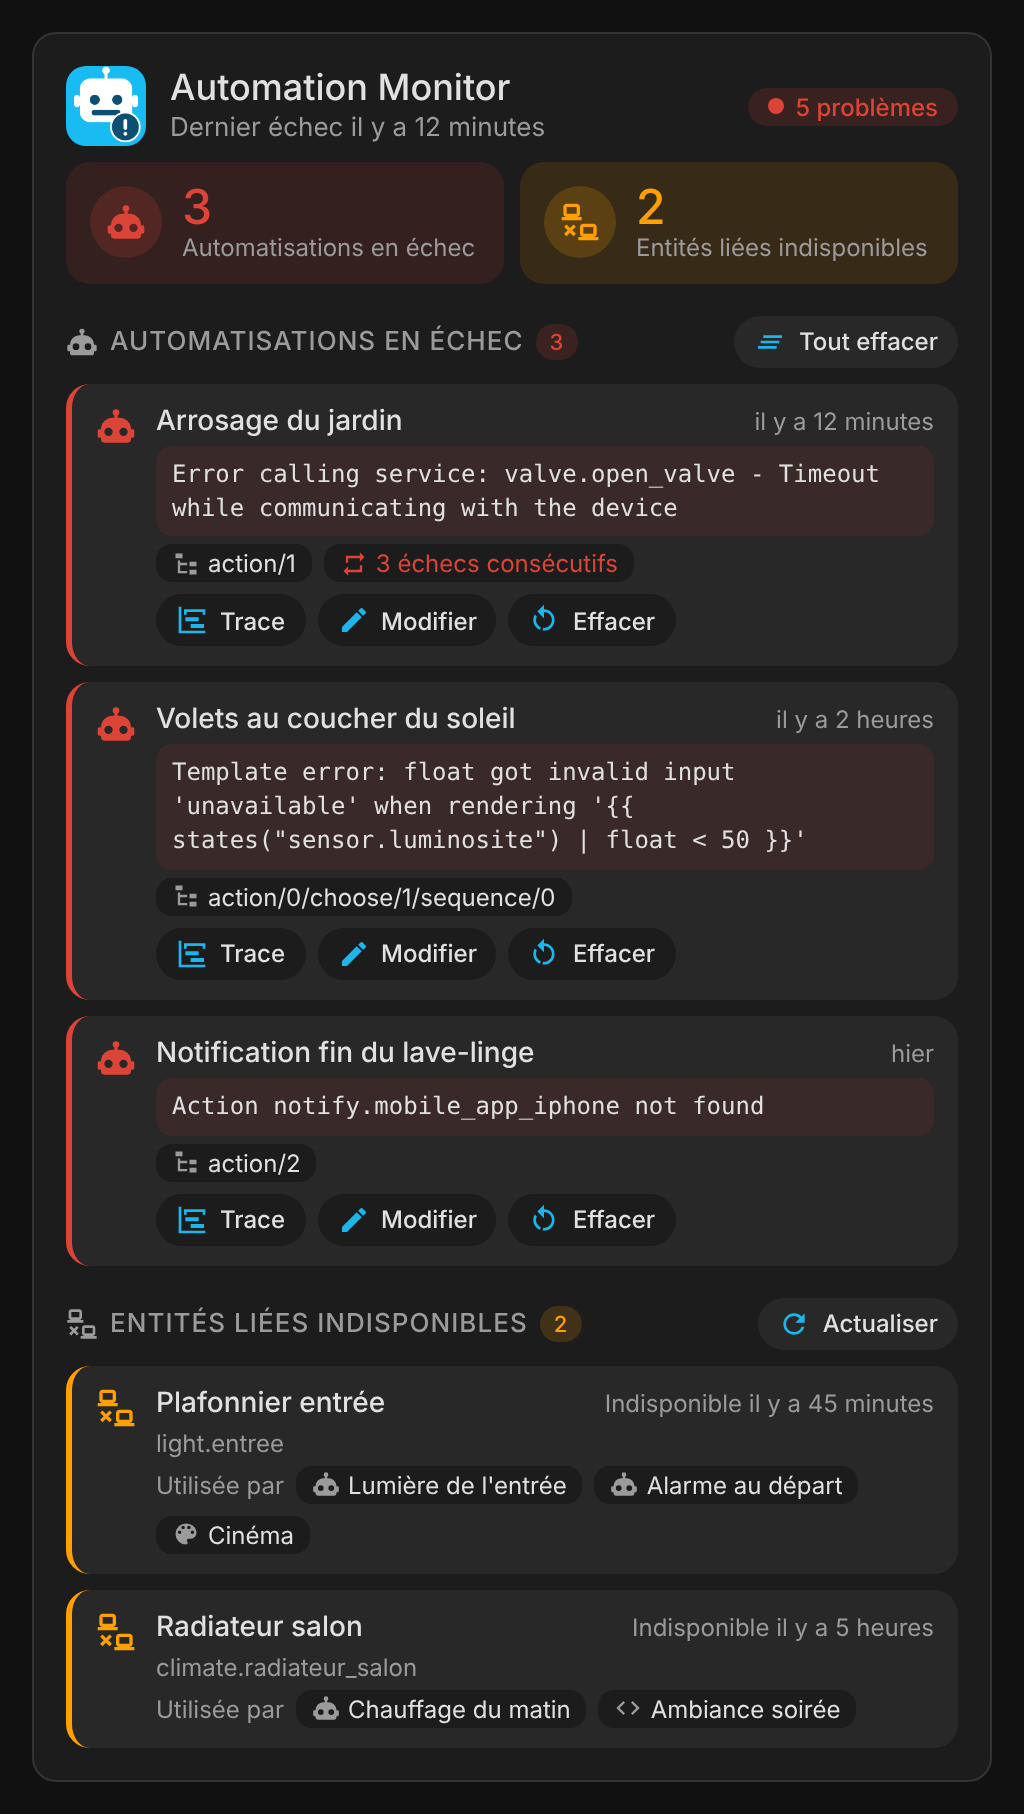
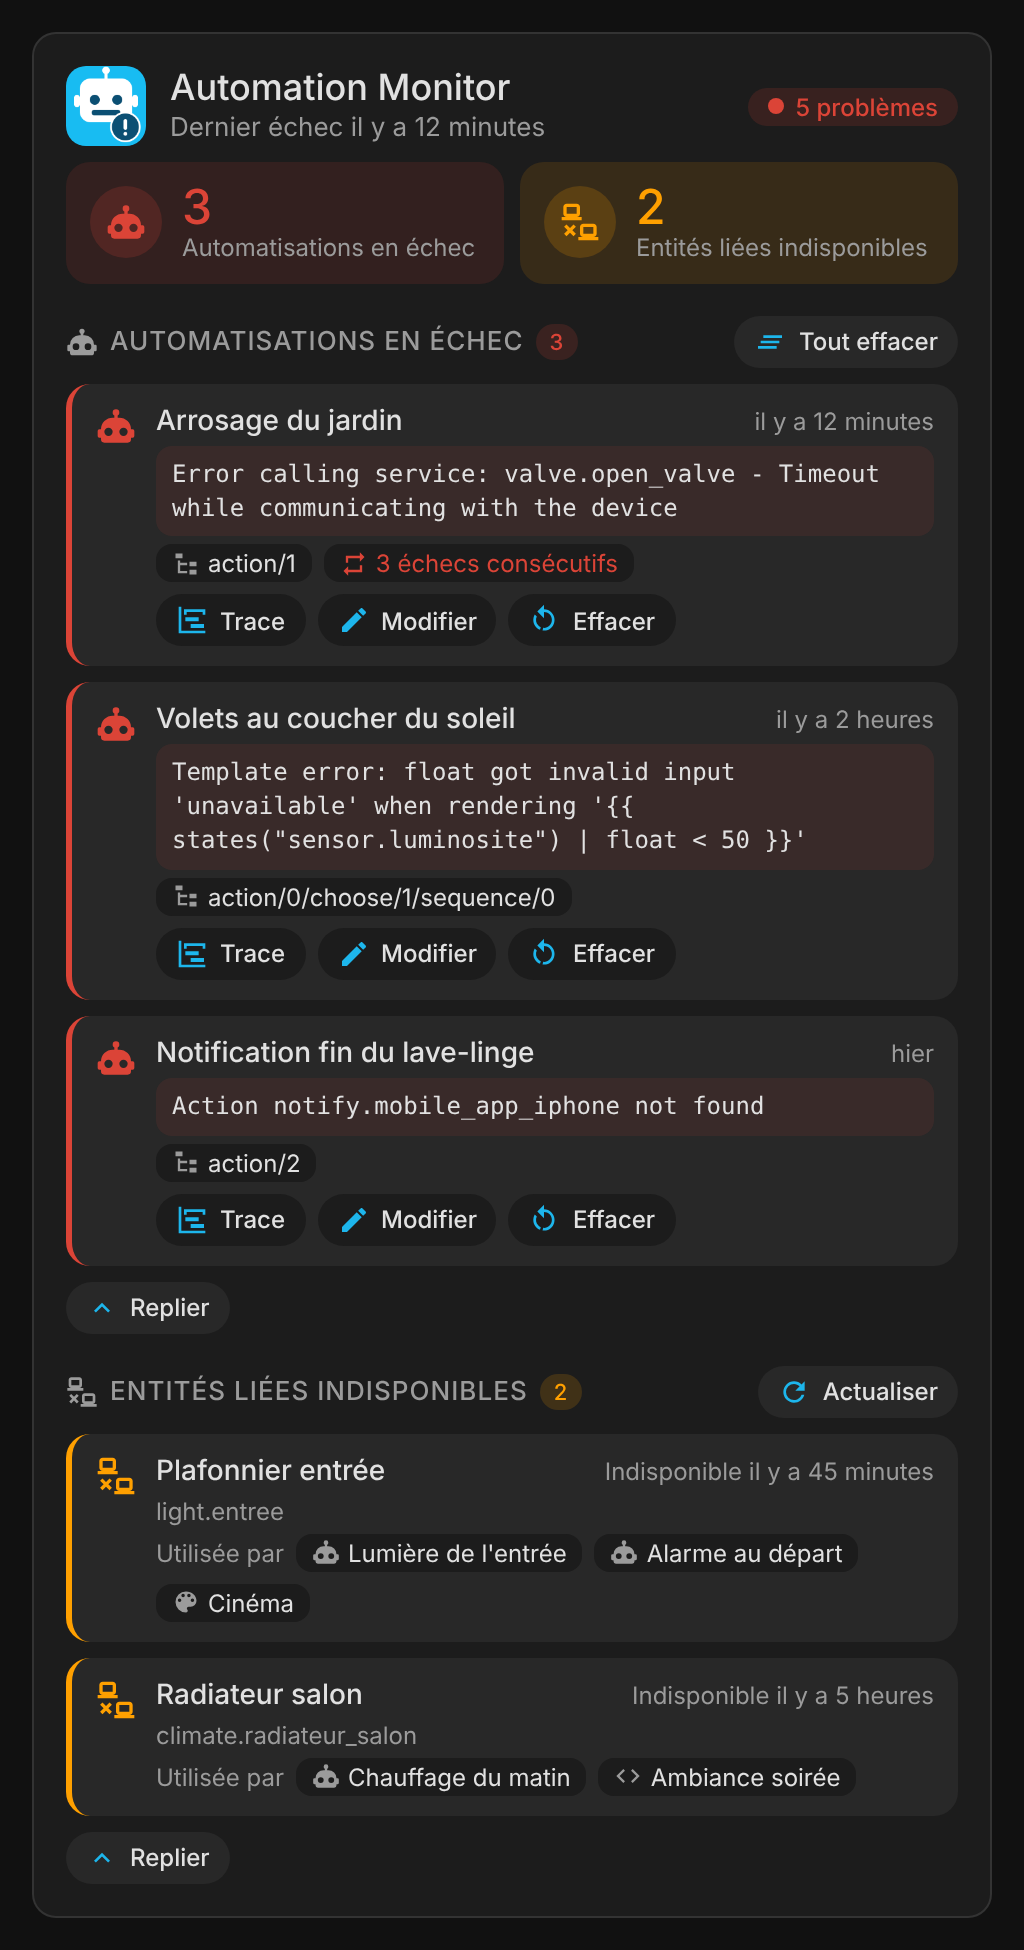
Fold the lists of failed automations and unavailable entities by default
Claude-Session: https://claude.ai/code/session_01Kf34p3Eda81rJeo8rJrMtS

diff --git a/dist/automation-monitor-card.js b/dist/automation-monitor-card.js
@@ -7,7 +7,7 @@
  * translation_key), so the cards work whatever the Home Assistant language or entity ids.
  */
 
-const VERSION = "1.0.0";
+const VERSION = "1.1.0";
[1 lines of base64/hex data omitted]
 const INTEGRATION_SITE = "https://github.com/olli-dot-dev/ha-automation-monitor";
 const PLATFORM = "automation_monitor";
@@ -64,6 +64,9 @@ const STRINGS = {
     confirm_reset_all: "Clear all failed automations? They will be reported again on their next failure.",
     show_more: "Show {n} more",
     show_less: "Show less",
+    unfold_failed: "Show the {n} automations",
+    unfold_linked: "Show the {n} entities",
+    fold: "Fold",
     just_now: "just now",
     no_integration: "Automation Monitor not found. Is the Automation Monitor integration installed?",
     unavailable: "The Automation Monitor sensors are unavailable.",
@@ -73,6 +76,8 @@ const STRINGS = {
     show_logo: "Show Automation Monitor logo",
     show_failed: "Show failed automations",
     show_linked: "Show unavailable linked entities",
+    collapse_failed: "Fold the failed automations",
+    collapse_linked: "Fold the unavailable linked entities",
     show_controls: "Show action buttons",
     show_details: "Show error details",
     max_items: "Items shown per list",
@@ -105,6 +110,9 @@ const STRINGS = {
     confirm_reset_all: "Effacer toutes les automatisations en échec ? Elles seront de nouveau signalées au prochain échec.",
     show_more: "Afficher {n} de plus",
     show_less: "Afficher moins",
+    unfold_failed: "Afficher les {n} automatisations",
+    unfold_linked: "Afficher les {n} entités",
+    fold: "Replier",
     just_now: "à l'instant",
     no_integration: "Automation Monitor introuvable. L'intégration Automation Monitor est-elle installée ?",
     unavailable: "Les capteurs d'Automation Monitor sont indisponibles.",
@@ -114,6 +122,8 @@ const STRINGS = {
     show_logo: "Afficher le logo Automation Monitor",
     show_failed: "Afficher les automatisations en échec",
     show_linked: "Afficher les entités liées indisponibles",
+    collapse_failed: "Replier les automatisations en échec",
+    collapse_linked: "Replier les entités liées indisponibles",
     show_controls: "Afficher les boutons d'action",
     show_details: "Afficher le détail des erreurs",
     max_items: "Éléments affichés par liste",
@@ -436,6 +446,8 @@ const FULL_STYLE = `
   .empty { display: flex; align-items: center; gap: 8px; font-size: 13px; color: var(--secondary-text-color); padding: 2px 0; }
   .empty .icon { color: var(--am-ok); }
   .more { align-self: center; }
+  .fold { align-self: flex-start; }
+  .items + .items { margin-top: 8px; }
 `;
 
 class AutomationMonitorCard extends AutomationMonitorBase {
@@ -488,6 +500,16 @@ class AutomationMonitorCard extends AutomationMonitorBase {
     return `<div class="items">${shown.map(renderItem).join("")}${more}</div>`;
   }
 
+  // When a list has several items it is folded by default (unless the option is false): one click unfolds it.
+  _foldable(key, items, option, label, renderItem) {
+    if (items.length < 2 || option === false) return this._list(key, items, renderItem);
+    const open = this._expanded[`${key}_open`];
+    const toggle = `<div class="items"><button class="btn fold" data-action="expand" data-entity="${key}_open">${svgIcon(
+      open ? ICONS.chevron_up : ICONS.chevron_down
+    )}<span>${esc(open ? this._t("fold") : this._t(label, { n: items.length }))}</span></button></div>`;
+    return open ? `${this._list(key, items, renderItem)}${toggle}` : toggle;
+  }
+
   _sectionTitle(icon, label, n, cls, button) {
     return `<div class="section-title">${svgIcon(icon)}<span>${esc(label)}</span>${
       n ? `<span class="count ${cls}">${n}</span>` : ""
@@ -502,7 +524,7 @@ class AutomationMonitorCard extends AutomationMonitorBase {
         : "";
     const title = this._sectionTitle(ICONS.robot_alert, this._t("failed_automations"), data.failures.length, "crit", button);
     if (!data.failures.length) return `<div>${title}<div class="empty">${svgIcon(ICONS.check)}<span>${esc(this._t("no_failure"))}</span></div></div>`;
-    return `<div>${title}${this._list("failed", data.failures, (a) => this._failure(a, controls))}</div>`;
+    return `<div>${title}${this._foldable("failed", data.failures, this._config.collapse_failed, "unfold_failed", (a) => this._failure(a, controls))}</div>`;
   }
 
   _failure(a, controls) {
@@ -543,7 +565,7 @@ class AutomationMonitorCard extends AutomationMonitorBase {
         : "";
     const title = this._sectionTitle(ICONS.disconnect, this._t("linked_unavailable"), data.linked.length, "warn", button);
     if (!data.linked.length) return `<div>${title}<div class="empty">${svgIcon(ICONS.check)}<span>${esc(this._t("no_unavailable"))}</span></div></div>`;
-    return `<div>${title}${this._list("linked", data.linked, (e) => this._linked(e))}</div>`;
+    return `<div>${title}${this._foldable("linked", data.linked, this._config.collapse_linked, "unfold_linked", (e) => this._linked(e))}</div>`;
   }
 
   _linked(e) {
@@ -722,7 +744,7 @@ class AutomationMonitorEditorBase extends HTMLElement {
 
 class AutomationMonitorCardEditor extends AutomationMonitorEditorBase {
   static get toggles() {
-    return [...super.toggles, ["show_details", true], ["show_controls", true]];
+    return [...super.toggles, ["collapse_failed", true], ["collapse_linked", true], ["show_details", true], ["show_controls", true]];
   }
 
   static extraFields() {

diff --git a/src/automation-monitor-card.js b/src/automation-monitor-card.js
@@ -64,6 +64,9 @@ const STRINGS = {
     confirm_reset_all: "Clear all failed automations? They will be reported again on their next failure.",
     show_more: "Show {n} more",
     show_less: "Show less",
+    unfold_failed: "Show the {n} automations",
+    unfold_linked: "Show the {n} entities",
+    fold: "Fold",
     just_now: "just now",
     no_integration: "Automation Monitor not found. Is the Automation Monitor integration installed?",
     unavailable: "The Automation Monitor sensors are unavailable.",
@@ -73,6 +76,8 @@ const STRINGS = {
     show_logo: "Show Automation Monitor logo",
     show_failed: "Show failed automations",
     show_linked: "Show unavailable linked entities",
+    collapse_failed: "Fold the failed automations",
+    collapse_linked: "Fold the unavailable linked entities",
     show_controls: "Show action buttons",
     show_details: "Show error details",
     max_items: "Items shown per list",
@@ -105,6 +110,9 @@ const STRINGS = {
     confirm_reset_all: "Effacer toutes les automatisations en échec ? Elles seront de nouveau signalées au prochain échec.",
     show_more: "Afficher {n} de plus",
     show_less: "Afficher moins",
+    unfold_failed: "Afficher les {n} automatisations",
+    unfold_linked: "Afficher les {n} entités",
+    fold: "Replier",
     just_now: "à l'instant",
     no_integration: "Automation Monitor introuvable. L'intégration Automation Monitor est-elle installée ?",
     unavailable: "Les capteurs d'Automation Monitor sont indisponibles.",
@@ -114,6 +122,8 @@ const STRINGS = {
     show_logo: "Afficher le logo Automation Monitor",
     show_failed: "Afficher les automatisations en échec",
     show_linked: "Afficher les entités liées indisponibles",
+    collapse_failed: "Replier les automatisations en échec",
+    collapse_linked: "Replier les entités liées indisponibles",
     show_controls: "Afficher les boutons d'action",
     show_details: "Afficher le détail des erreurs",
     max_items: "Éléments affichés par liste",
@@ -436,6 +446,8 @@ const FULL_STYLE = `
   .empty { display: flex; align-items: center; gap: 8px; font-size: 13px; color: var(--secondary-text-color); padding: 2px 0; }
   .empty .icon { color: var(--am-ok); }
   .more { align-self: center; }
+  .fold { align-self: flex-start; }
+  .items + .items { margin-top: 8px; }
 `;
 
 class AutomationMonitorCard extends AutomationMonitorBase {
@@ -488,6 +500,16 @@ class AutomationMonitorCard extends AutomationMonitorBase {
     return `<div class="items">${shown.map(renderItem).join("")}${more}</div>`;
   }
 
+  // When a list has several items it is folded by default (unless the option is false): one click unfolds it.
+  _foldable(key, items, option, label, renderItem) {
+    if (items.length < 2 || option === false) return this._list(key, items, renderItem);
+    const open = this._expanded[`${key}_open`];
+    const toggle = `<div class="items"><button class="btn fold" data-action="expand" data-entity="${key}_open">${svgIcon(
+      open ? ICONS.chevron_up : ICONS.chevron_down
+    )}<span>${esc(open ? this._t("fold") : this._t(label, { n: items.length }))}</span></button></div>`;
+    return open ? `${this._list(key, items, renderItem)}${toggle}` : toggle;
+  }
+
   _sectionTitle(icon, label, n, cls, button) {
     return `<div class="section-title">${svgIcon(icon)}<span>${esc(label)}</span>${
       n ? `<span class="count ${cls}">${n}</span>` : ""
@@ -502,7 +524,7 @@ class AutomationMonitorCard extends AutomationMonitorBase {
         : "";
     const title = this._sectionTitle(ICONS.robot_alert, this._t("failed_automations"), data.failures.length, "crit", button);
     if (!data.failures.length) return `<div>${title}<div class="empty">${svgIcon(ICONS.check)}<span>${esc(this._t("no_failure"))}</span></div></div>`;
-    return `<div>${title}${this._list("failed", data.failures, (a) => this._failure(a, controls))}</div>`;
+    return `<div>${title}${this._foldable("failed", data.failures, this._config.collapse_failed, "unfold_failed", (a) => this._failure(a, controls))}</div>`;
   }
 
   _failure(a, controls) {
@@ -543,7 +565,7 @@ class AutomationMonitorCard extends AutomationMonitorBase {
         : "";
     const title = this._sectionTitle(ICONS.disconnect, this._t("linked_unavailable"), data.linked.length, "warn", button);
     if (!data.linked.length) return `<div>${title}<div class="empty">${svgIcon(ICONS.check)}<span>${esc(this._t("no_unavailable"))}</span></div></div>`;
-    return `<div>${title}${this._list("linked", data.linked, (e) => this._linked(e))}</div>`;
+    return `<div>${title}${this._foldable("linked", data.linked, this._config.collapse_linked, "unfold_linked", (e) => this._linked(e))}</div>`;
   }
 
   _linked(e) {
@@ -722,7 +744,7 @@ class AutomationMonitorEditorBase extends HTMLElement {
 
 class AutomationMonitorCardEditor extends AutomationMonitorEditorBase {
   static get toggles() {
-    return [...super.toggles, ["show_details", true], ["show_controls", true]];
+    return [...super.toggles, ["collapse_failed", true], ["collapse_linked", true], ["show_details", true], ["show_controls", true]];
   }
 
   static extraFields() {

diff --git a/README.md b/README.md
@@ -16,7 +16,7 @@ The cards are built on top of the Automation Monitor integration: its two sensor
 
 | Automation Monitor Card | Automation Monitor Mini Card |
 |---|---|
-| ![automation-monitor-card](https://raw.githubusercontent.com/juju35/ha-automation-monitor-card/main/screenshots/card.png) | ![automation-monitor-mini-card](https://raw.githubusercontent.com/juju35/ha-automation-monitor-card/main/screenshots/mini-card.png) |
+| ![automation-monitor-card](https://raw.githubusercontent.com/juju35/ha-automation-monitor-card/main/screenshots/card-open.png) | ![automation-monitor-mini-card](https://raw.githubusercontent.com/juju35/ha-automation-monitor-card/main/screenshots/mini-card.png) |
 
 ## Features
 
@@ -28,7 +28,7 @@ The cards are built on top of the Automation Monitor integration: its two sensor
 - **Clear** a failure (or **Clear all**) with the integration's `automation_monitor.reset` action, with confirmation
 - Unavailable linked entities: name, entity id, how long it has been unavailable and the automations, scripts and scenes that use it (click one to open its editor)
 - **Refresh** button rebuilding the list of linked entities (`automation_monitor.rebuild_linked_entities`)
-- Long lists are cut to a configurable number of items, with a "Show more" button
+- Lists with several items are folded by default and unfold in one click; long lists are cut to a configurable number of items, with a "Show more" button
 - Click a counter, an automation or an entity to open its Home Assistant more-info dialog
 - Click the Automation Monitor logo to open the [integration's page](https://github.com/olli-dot-dev/ha-automation-monitor)
 - Visual editor in the dashboard UI for both cards (no YAML needed)
@@ -69,7 +69,7 @@ Or manually:
 
 ### Visual editor
 
-Edit a dashboard, click **Add card** and search for **Automation Monitor Card** or **Automation Monitor Mini Card**. There is nothing to pick: the sensors of the integration are found automatically. Set an optional title, choose the sections to display, the action buttons, the number of items per list and the language. The preview updates live, and options left at their default are kept out of the generated YAML.
+Edit a dashboard, click **Add card** and search for **Automation Monitor Card** or **Automation Monitor Mini Card**. There is nothing to pick: the sensors of the integration are found automatically. Set an optional title, choose the sections to display, whether lists are folded, the action buttons, the number of items per list and the language. The preview updates live, and options left at their default are kept out of the generated YAML.
 
 ### Minimal
 
@@ -89,6 +89,8 @@ title: Automations
 show_logo: true
 show_failed: true
 show_linked: true
+collapse_failed: true
+collapse_linked: true
 show_details: true
 show_controls: true
 max_items: 5
@@ -112,6 +114,8 @@ language: fr
 | `show_logo` | both | `true` | Show the Automation Monitor logo (opens the [integration's page](https://github.com/olli-dot-dev/ha-automation-monitor) in a new tab) |
 | `show_failed` | both | `true` | Failed automations (counter and list) |
 | `show_linked` | both | `true` | Unavailable linked entities (counter and list) |
+| `collapse_failed` | full | `true` | Fold the failed automations when there are several (one click unfolds them); `false` always shows them |
+| `collapse_linked` | full | `true` | Fold the unavailable linked entities when there are several (one click unfolds them); `false` always shows them |
 | `show_details` | full | `true` | Error message of each failed automation |
 | `show_controls` | full | `true` | Clear, Clear all and Refresh buttons (the Trace and Edit links are always shown) |
 | `max_items` | full | `5` | Items shown per list before the "Show more" button |
@@ -121,10 +125,14 @@ language: fr
 
 ## Screenshots
 
-| Light | Dark (French) |
+| Light (lists folded by default) | Dark (French, lists unfolded) |
 |---|---|
 | ![card](screenshots/card.png) | ![card dark](screenshots/card-dark.png) |
 | ![mini card](screenshots/mini-card.png) | ![mini card dark](screenshots/mini-card-dark.png) |
+
+Lists unfolded:
+
+![card unfolded](screenshots/card-open.png)
 
 When everything works:
 

diff --git a/CHANGELOG.md b/CHANGELOG.md
@@ -1,5 +1,11 @@
 # Changelog
 
+## 1.1.0
+
+### ✨ Features
+
+- When there are several failed automations or several unavailable linked entities, their list is now folded by default: a "Show the N automations" / "Show the N entities" button unfolds it, and "Fold" folds it again. The counters and the status stay visible. Set `collapse_failed: false` or `collapse_linked: false` (also in the visual editor) to always show the lists.
+
 ## 1.0.0
 
 First release of the Automation Monitor cards for Home Assistant, built for the [Automation Monitor integration](https://github.com/olli-dot-dev/ha-automation-monitor).
